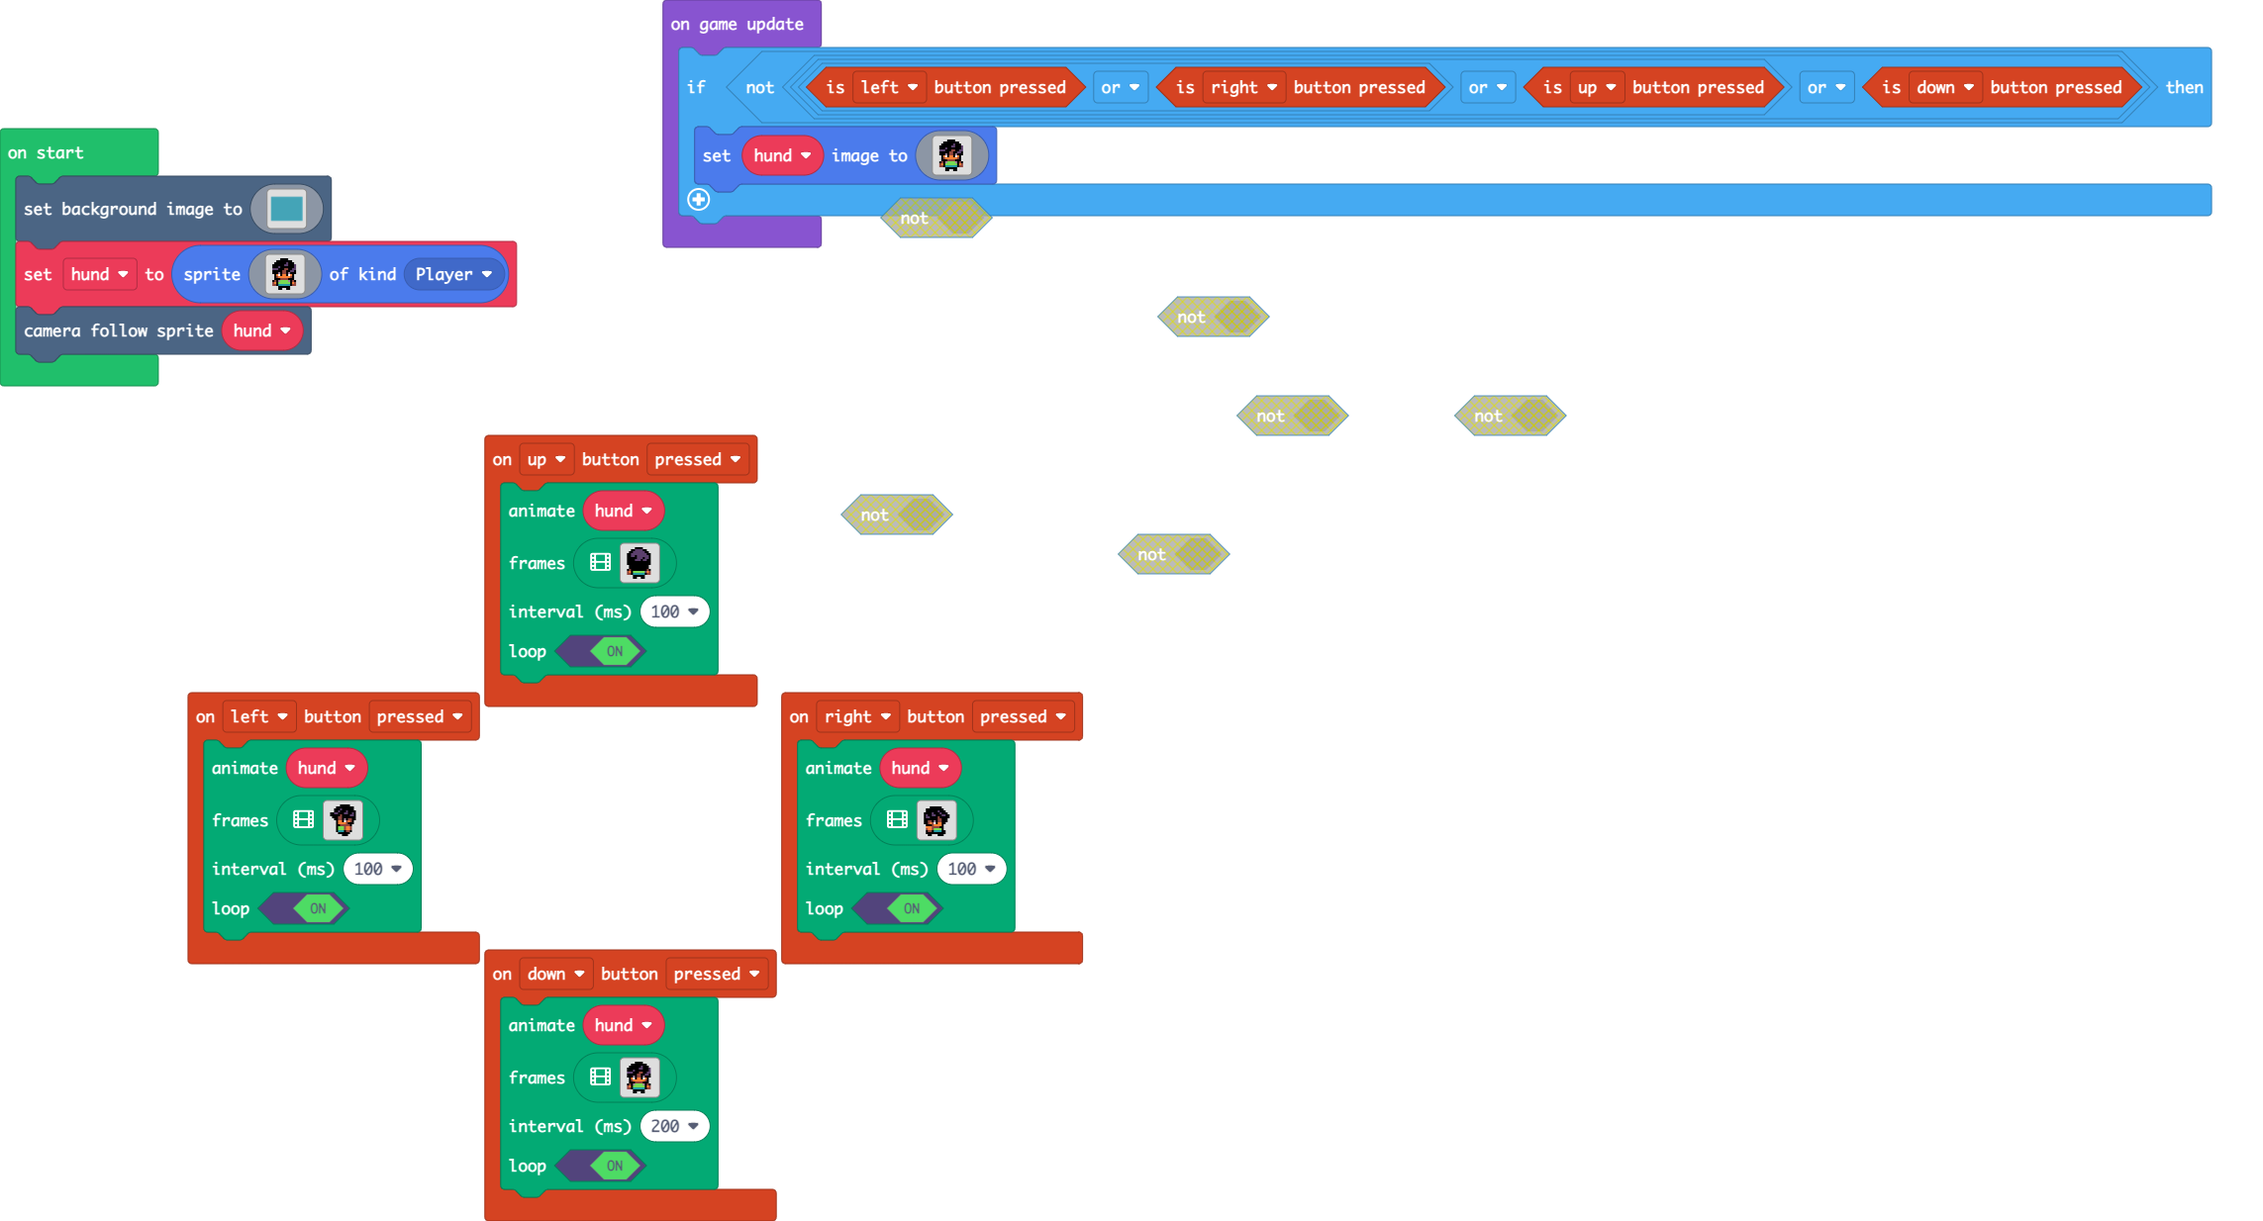
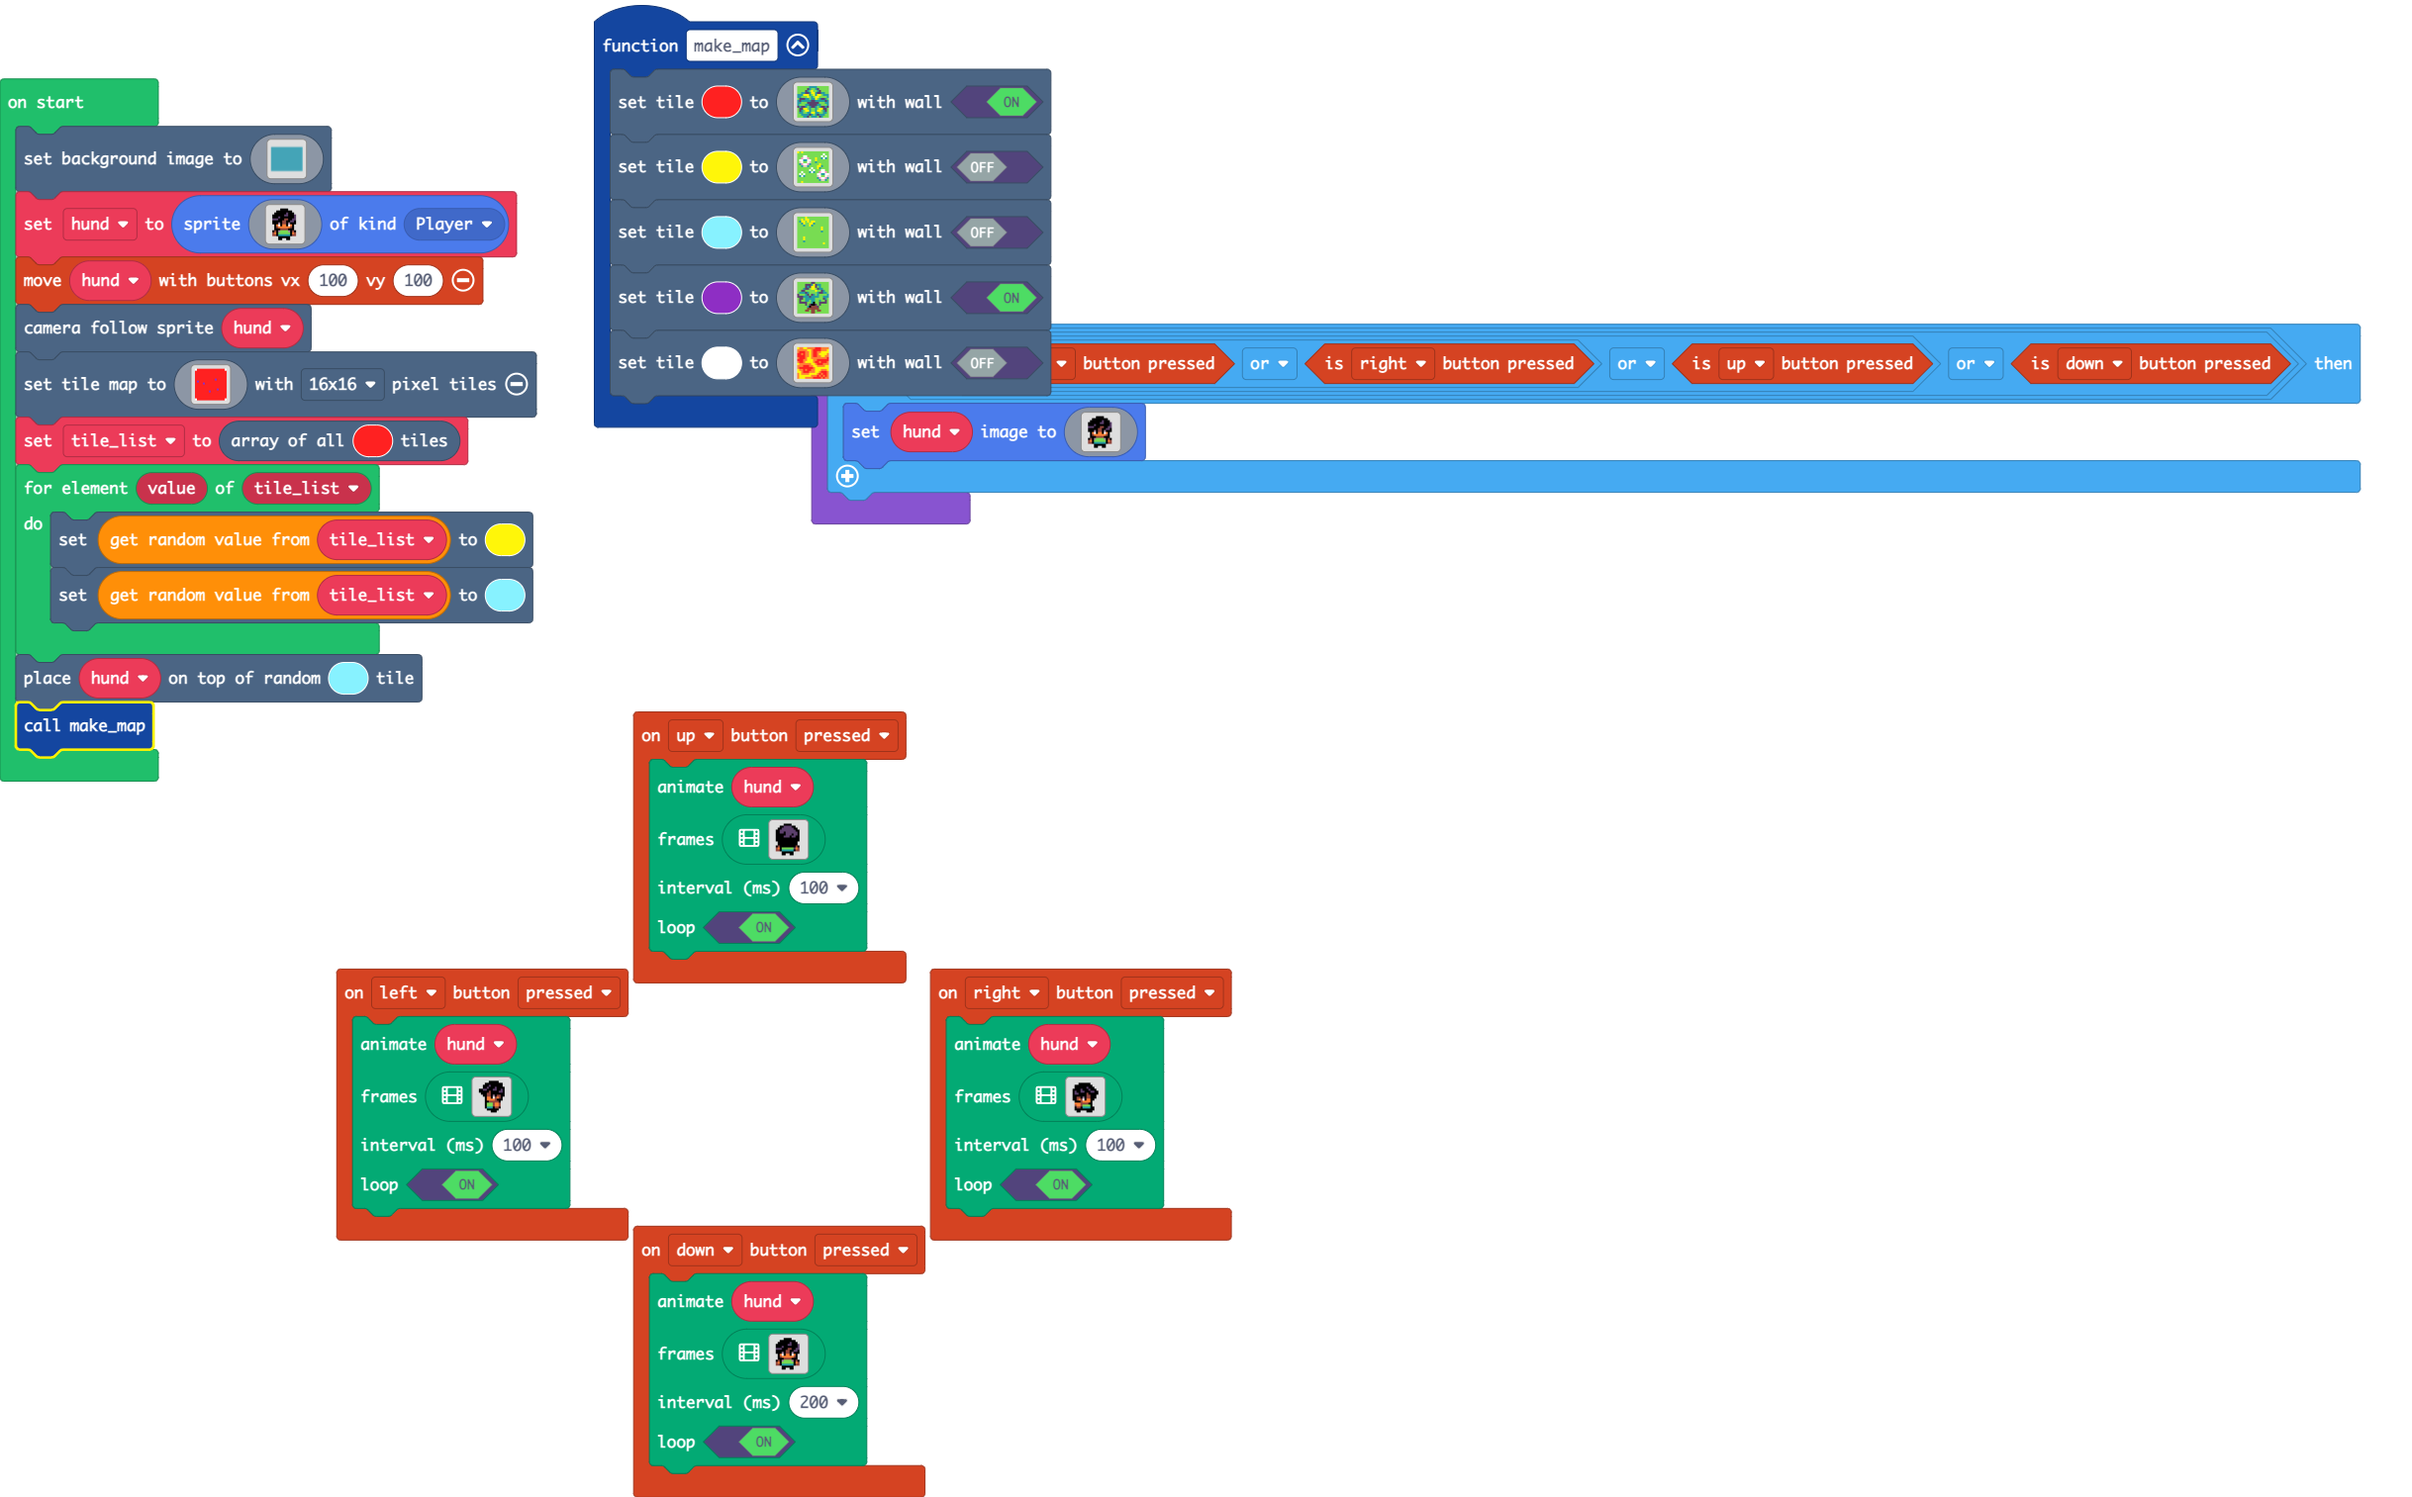
Update pxt.json, main.blocks, main.ts

diff --git a/main.ts b/main.ts
@@ -30,6 +30,98 @@ controller.down.onEvent(ControllerButtonEvent.Pressed, function () {
     true
     )
 })
+function make_map () {
+    scene.setTile(2, img`
+        7 7 7 7 7 7 6 6 6 6 7 7 7 7 7 7 
+        7 7 7 7 7 c 6 7 7 6 c 7 7 7 7 7 
+        7 7 7 7 c 6 7 5 7 7 6 c 7 7 7 7 
+        7 7 6 6 c c 6 5 5 6 c c 6 6 7 7 
+        6 6 6 5 5 5 6 7 5 6 5 5 7 6 6 6 
+        6 6 7 7 7 5 7 6 7 5 5 7 7 7 7 6 
+        7 c c c 6 6 7 6 6 5 7 6 c c 6 7 
+        6 c 6 6 6 6 6 c c 6 6 6 6 6 c 6 
+        6 6 7 7 7 c c c c c c 7 7 7 6 6 
+        6 7 7 7 6 6 c c c c 6 6 7 7 7 6 
+        c 6 c c 6 7 6 c c 6 7 6 c c 6 c 
+        7 c c 5 5 7 6 7 7 6 7 5 5 c c 7 
+        7 c 6 7 5 5 6 7 7 6 5 5 7 6 c 7 
+        7 6 6 7 7 6 6 5 5 6 6 7 7 6 6 7 
+        7 7 6 6 6 6 c 6 7 6 c 6 6 6 7 7 
+        7 7 7 6 6 c 7 6 6 6 7 c 6 7 7 7 
+        `, true)
+    scene.setTile(5, img`
+        5 7 5 7 7 7 7 7 7 7 7 7 7 7 7 7 
+        7 7 7 7 7 7 7 7 7 7 7 7 7 1 7 7 
+        7 7 7 1 1 7 7 7 7 7 7 7 1 7 1 7 
+        7 7 3 1 1 3 7 7 7 5 7 7 6 1 6 7 
+        7 1 1 6 6 1 1 7 7 5 7 7 7 7 7 7 
+        7 d 1 7 7 1 d 7 7 6 7 7 7 7 7 7 
+        7 6 3 1 1 3 6 7 7 7 7 5 7 7 7 7 
+        7 7 6 d d 6 7 7 7 7 5 5 6 7 7 7 
+        7 7 7 7 7 7 7 1 7 7 5 6 7 7 7 7 
+        7 7 7 7 7 7 1 7 1 7 7 7 1 1 7 7 
+        7 7 1 7 7 7 6 1 6 7 7 3 1 1 3 7 
+        7 1 7 1 7 7 7 7 7 7 1 1 6 6 1 1 
+        7 6 1 6 7 7 7 7 7 7 d 1 7 7 1 d 
+        7 7 7 7 7 7 7 7 7 7 6 3 1 1 3 6 
+        7 7 7 7 7 7 7 7 7 7 7 6 d d 6 7 
+        7 7 5 7 7 7 7 7 7 7 7 7 7 7 7 7 
+        `, false)
+    scene.setTile(9, img`
+        7 7 7 7 5 7 7 7 7 7 7 7 7 7 7 7 
+        7 7 5 7 5 5 7 7 7 7 7 7 7 7 7 7 
+        7 6 5 5 7 5 7 5 5 7 7 7 7 7 7 7 
+        7 7 6 5 7 7 5 5 6 7 7 7 7 7 7 7 
+        7 7 7 6 7 7 5 6 7 7 7 7 7 7 7 7 
+        7 7 7 7 7 7 7 7 7 7 7 7 5 7 7 7 
+        7 7 7 7 7 7 7 7 7 7 7 7 5 7 7 7 
+        7 7 7 7 7 7 7 7 7 7 7 7 6 7 7 7 
+        7 7 7 7 7 7 7 7 7 7 7 7 7 7 7 7 
+        7 7 7 7 7 7 7 7 7 7 7 7 7 7 7 7 
+        7 7 7 5 7 7 7 7 7 7 7 7 7 7 7 7 
+        7 7 7 5 7 7 7 7 7 7 7 7 7 7 7 7 
+        7 7 7 6 7 7 7 7 7 7 7 7 7 7 7 7 
+        7 7 7 7 7 7 7 7 7 7 7 7 7 5 7 7 
+        7 7 7 7 7 7 7 7 7 7 7 7 7 7 7 7 
+        7 7 7 7 7 7 7 7 7 7 7 7 7 7 7 7 
+        `, false)
+    scene.setTile(10, img`
+        7 7 7 7 7 7 7 c c 7 7 7 7 7 7 7 
+        7 7 7 7 c c c 6 5 c 6 6 7 7 7 7 
+        7 7 7 7 c 6 c 5 5 c 7 6 7 7 7 7 
+        7 7 7 6 c c 7 5 5 7 c 6 6 7 7 7 
+        7 7 c c 7 7 7 7 7 5 7 7 c 6 7 7 
+        7 6 6 6 c 6 7 7 7 7 6 c c 6 6 7 
+        c 7 7 7 6 c 7 c 6 7 6 7 7 7 7 6 
+        c c c 6 6 6 c 6 6 6 6 7 7 6 6 6 
+        7 c c 7 6 6 6 6 6 7 7 7 7 c 6 7 
+        7 c 7 7 6 6 7 6 6 7 7 6 7 7 c 7 
+        7 c c c c 7 7 6 f 7 7 c c c c 7 
+        7 7 7 7 c 7 c f f c 7 c 7 7 7 7 
+        7 7 7 7 7 6 f e e e c 7 7 7 7 7 
+        7 7 7 7 7 e e e e e e 7 7 7 7 7 
+        7 7 7 7 e e 7 e e 7 e e 7 7 7 7 
+        7 7 7 7 7 7 7 e e 7 7 7 7 7 7 7 
+        `, true)
+    scene.setTile(1, img`
+        5 4 4 5 5 4 4 4 4 2 2 2 4 4 4 4 
+        4 4 4 4 4 5 5 4 2 2 2 2 4 4 4 5 
+        4 2 2 2 4 4 5 4 2 2 4 4 5 5 5 5 
+        2 2 4 2 4 4 5 4 2 2 4 5 5 5 5 4 
+        2 2 2 2 4 4 5 4 2 2 4 4 5 5 4 4 
+        4 2 2 2 4 5 5 4 4 4 4 4 4 4 4 2 
+        2 2 2 4 4 5 5 5 4 4 2 2 2 2 2 2 
+        4 2 2 4 5 5 5 5 4 2 2 4 2 2 2 4 
+        5 4 4 4 4 4 4 5 5 4 2 2 2 4 4 4 
+        4 4 4 2 2 2 4 4 5 5 4 4 4 4 5 5 
+        4 2 2 2 2 2 2 2 4 5 5 5 5 5 5 5 
+        5 4 4 2 4 2 2 4 4 5 5 5 4 4 4 5 
+        5 5 4 2 2 2 4 4 4 5 5 4 2 2 2 4 
+        4 5 4 4 4 4 5 5 5 5 4 2 4 2 2 4 
+        4 5 5 5 5 5 5 4 4 4 2 4 2 4 2 4 
+        4 5 5 5 4 4 4 4 2 2 2 2 4 2 4 4 
+        `, false)
+}
 let hund: Sprite = null
 scene.setBackgroundImage(img`
     6666666666666666666666666666666666666666666666666666666666666666666666666666666666666666666666666666666666666666666666666666666666666666666666666666666666666666
@@ -154,7 +246,33 @@ scene.setBackgroundImage(img`
     6666666666666666666666666666666666666666666666666666666666666666666666666666666666666666666666666666666666666666666666666666666666666666666666666666666666666666
     `)
 hund = sprites.create(assets.image`dude_stand`, SpriteKind.Player)
+controller.moveSprite(hund, 100, 100)
 scene.cameraFollowSprite(hund)
+scene.setTileMap(img`
+    1 2 2 2 2 2 2 2 2 2 2 2 2 2 2 1 
+    2 2 2 2 2 2 2 2 2 2 2 2 2 2 2 2 
+    2 2 2 2 2 2 2 2 2 2 2 2 2 2 2 2 
+    2 2 2 2 2 2 2 2 2 2 2 2 2 2 2 2 
+    2 2 2 2 2 2 2 2 2 2 2 2 2 2 2 2 
+    2 2 2 2 2 2 2 2 2 2 a 2 2 2 2 2 
+    2 a 2 2 2 2 2 2 2 2 2 2 2 2 2 2 
+    2 2 2 2 a 2 2 2 2 2 2 2 2 2 2 2 
+    2 2 2 2 2 2 2 2 2 2 2 2 2 2 2 2 
+    2 2 2 2 2 2 2 2 2 2 2 2 2 2 2 2 
+    2 2 2 2 2 2 2 2 2 2 2 a 2 2 2 2 
+    2 2 2 2 2 2 2 a 2 2 2 2 2 2 2 2 
+    2 2 2 2 2 2 2 2 2 2 2 2 2 2 2 2 
+    2 2 2 2 2 2 2 2 2 2 2 2 2 2 2 2 
+    2 2 2 2 2 2 2 2 2 2 2 2 2 2 2 2 
+    1 2 2 2 2 2 2 2 2 2 2 2 2 2 2 1 
+    `, TileScale.Sixteen)
+let tile_list = scene.getTilesByType(2)
+for (let value of tile_list) {
+    scene.setTileAt(tile_list._pickRandom(), 5)
+    scene.setTileAt(tile_list._pickRandom(), 9)
+}
+scene.placeOnRandomTile(hund, 9)
+make_map()
 game.onUpdate(function () {
     if (!(controller.left.isPressed() || controller.right.isPressed() || controller.up.isPressed() || controller.down.isPressed())) {
         hund.setImage(assets.image`dude_stand0`)
